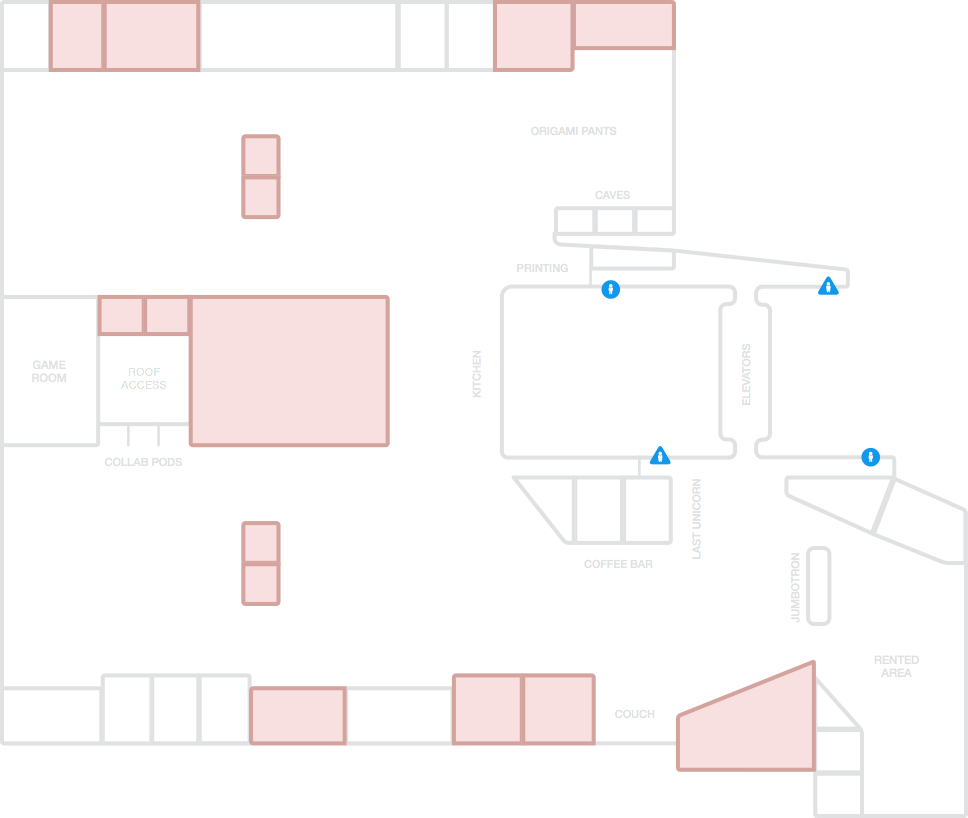
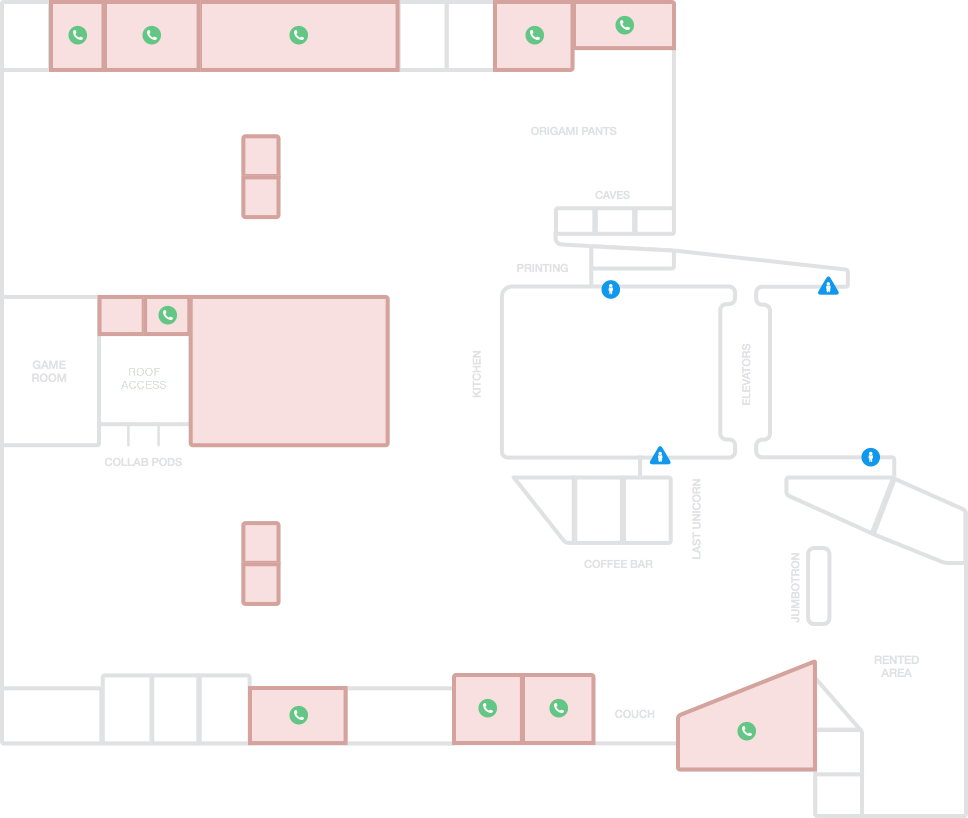
update map, add phones

diff --git a/css/app.css b/css/app.css
@@ -214,7 +214,7 @@ body {
 .dial-tone { left: 213px; top: 620px; }
 .dial-tone:after { background-image: url('../img/dial-tone.png'); }
 
-.emoji { left: 253px; top: 20px; }
+.emoji { left: 280px; top: -45px; }
 .emoji:after { background-image: url('../img/emoji.png'); background-size: 50%; }
 
 .hieroglyph { left: 295px; top: 183px; }
@@ -241,11 +241,8 @@ body {
 .smoke-signal { left: 428px; top: 760px; }
 .smoke-signal:after { background-image: url('../img/smoke-signal.png'); background-size: 40%; }
 
-.sputnik { left: 255px; top: 760px; }
+.sputnik { left: 249px; top: 760px; }
 .sputnik:after { background-image: url('../img/sputnik.png'); }
-
-.telegram { left: 65px; top: 695px; }
-.telegram:after { background-image: url('../img/telegram.png'); }
 
 .wall-street { left: 90px; top: -45px; }
 .wall-street:after { background-image: url('../img/wall-street.png'); background-size: 25%; }
@@ -253,7 +250,7 @@ body {
 @media (-webkit-min-device-pixel-ratio: 2), (min-resolution: 192dpi) { 
   .header .logo {
     background-image: url('../img/logo@2x.png');  
-    background-size: 100% 100%;
+    background-size: 100%;
   }
 
   .map {

diff --git a/js/controllers.js b/js/controllers.js
@@ -10,7 +10,7 @@ angular.module('myApp.controllers', [])
       {'name': 'Ballpoint', 'class': 'ballpoint', 'dir': 'bottom'},
       {'name': 'Call Waiting', 'class': 'call-waiting', 'dir': 'bottom'},
       {'name': 'Dial Tone', 'class': 'dial-tone', 'dir': 'top'},
-      {'name': 'emoji', 'class': 'emoji', 'dir': 'none'},
+      {'name': 'emoji', 'class': 'emoji', 'dir': 'bottom'},
       {'name': 'Hieroglyph', 'class': 'hieroglyph', 'dir': 'left'},
       {'name': 'Hypertext', 'class': 'hypertext', 'dir': 'top'},
       {'name': 'Morse Code', 'class': 'morse-code', 'dir': 'bottom'},
